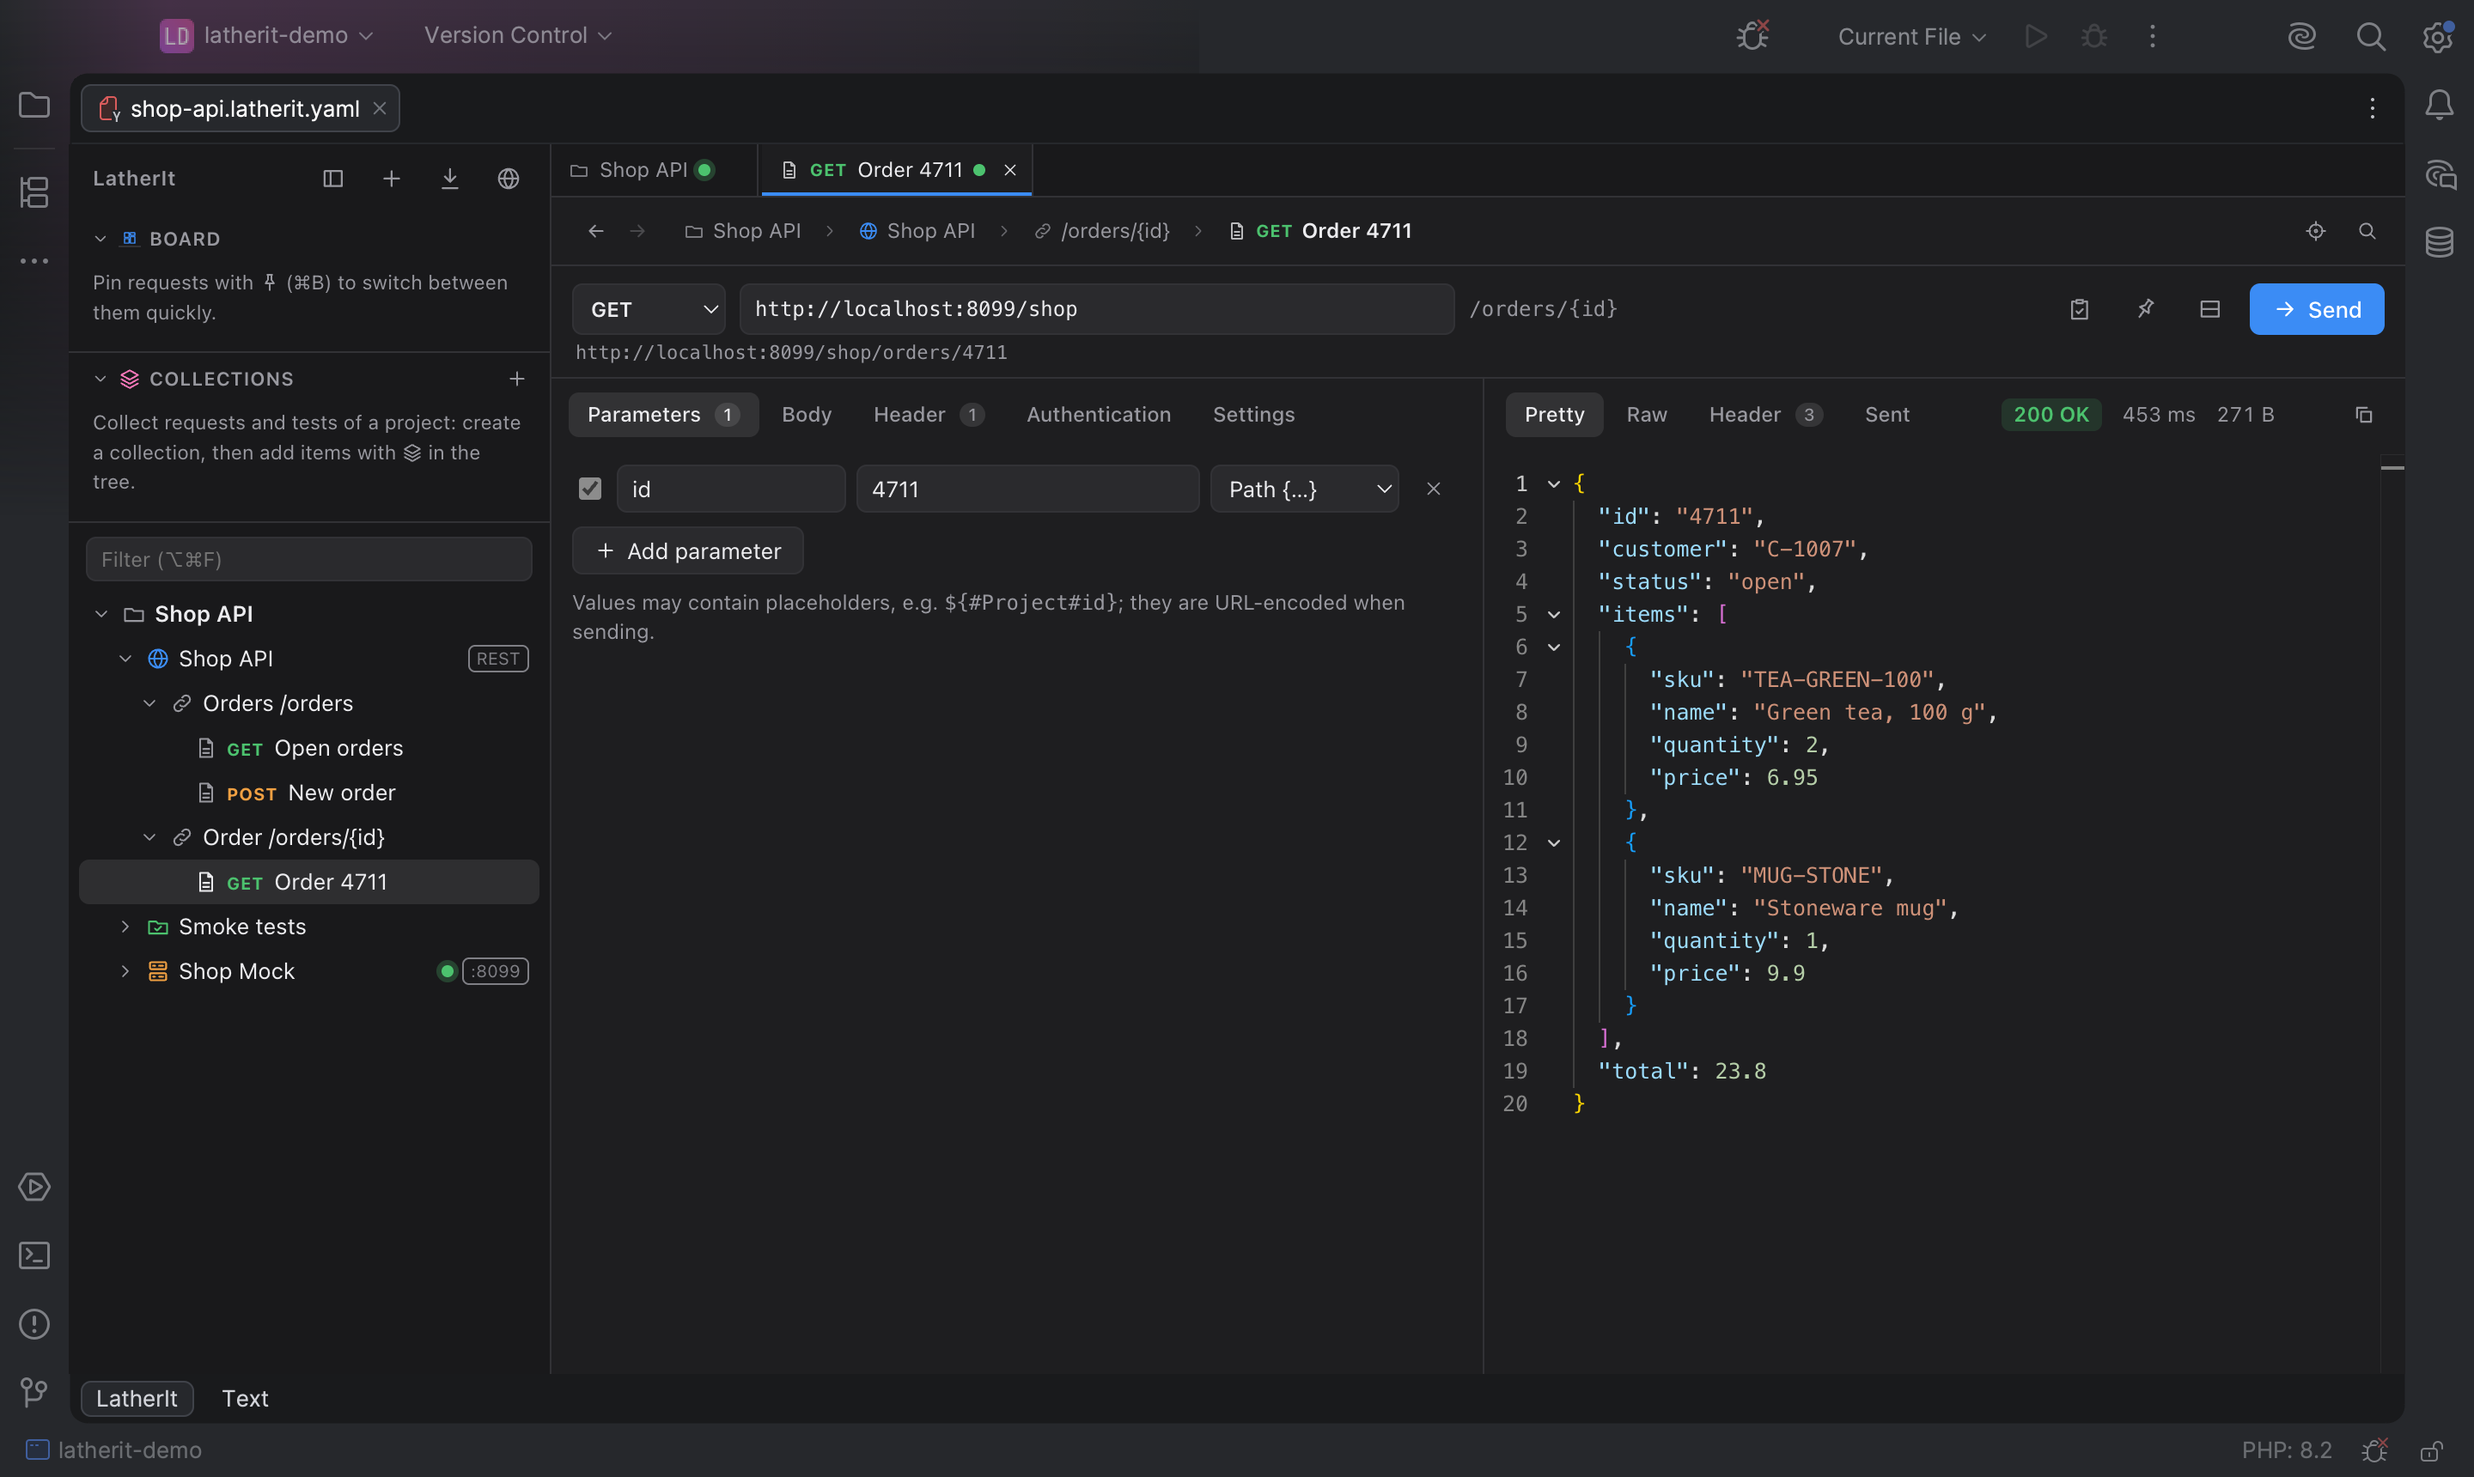
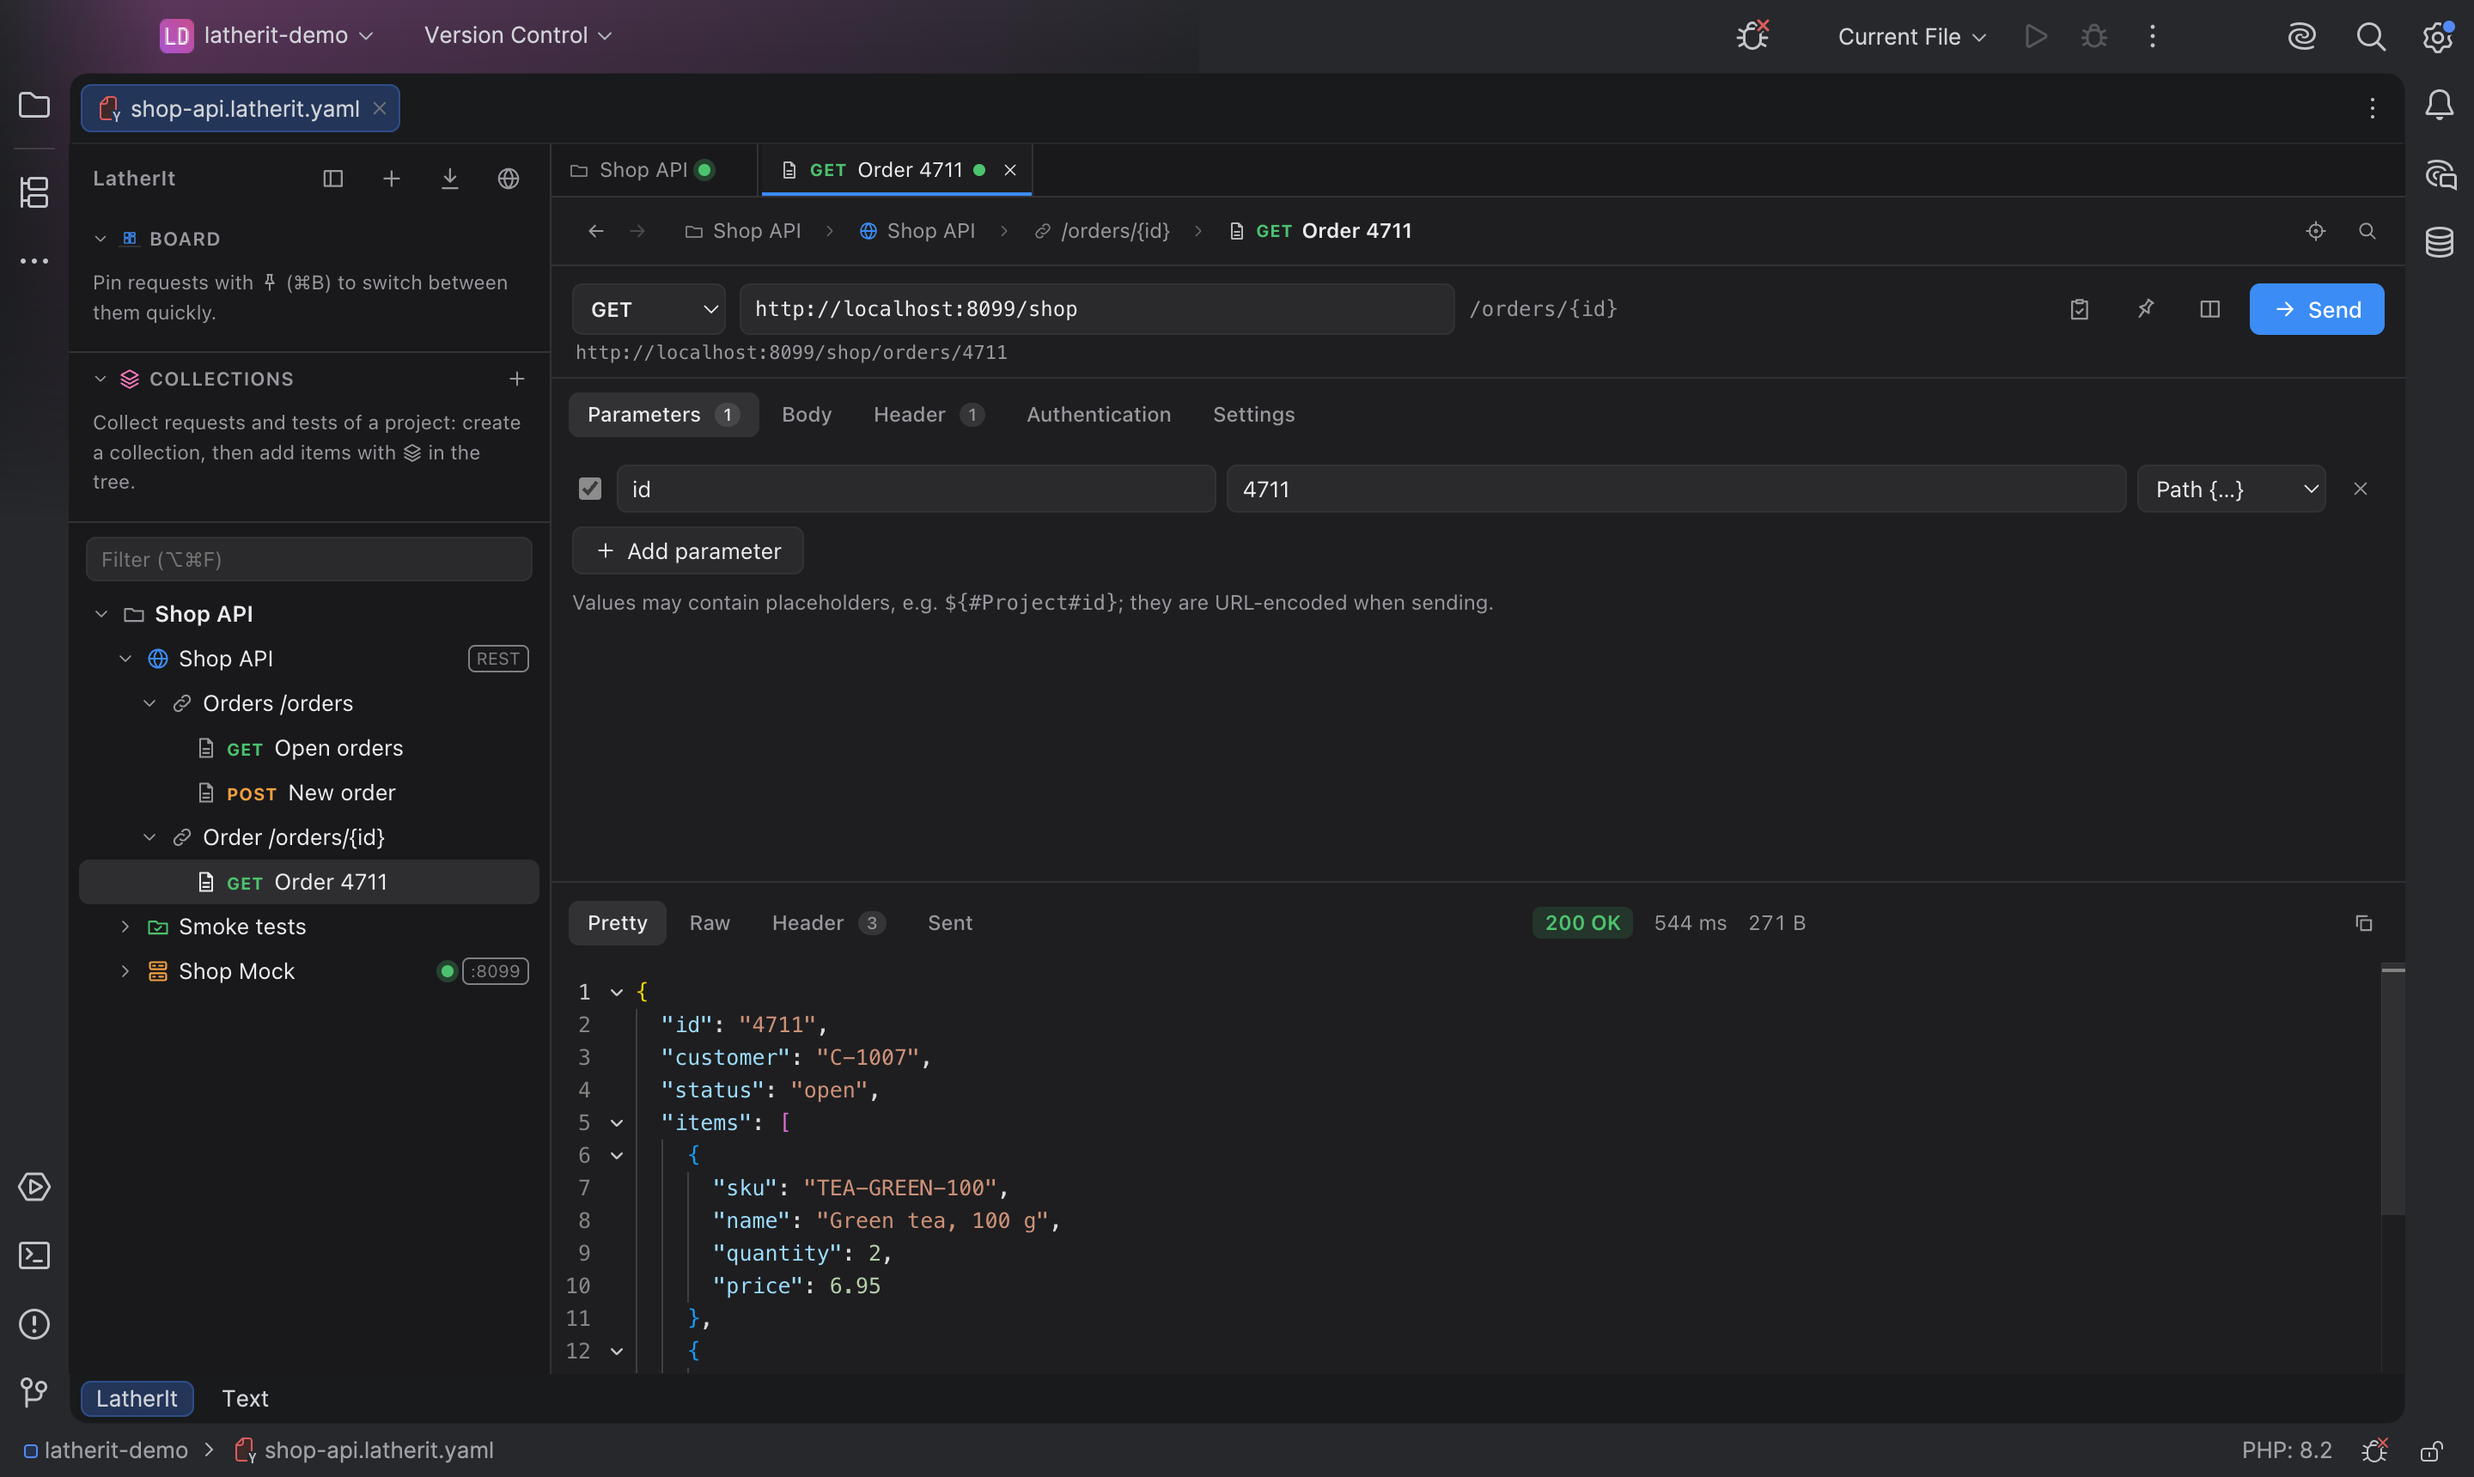
Fix the stacked screenshot for the English UI

diff --git a/src/screenshot/kotlin/app/heckit/ide/latherit/screenshot/ScreenshotMaker.kt b/src/screenshot/kotlin/app/heckit/ide/latherit/screenshot/ScreenshotMaker.kt
@@ -65,10 +65,10 @@ object ScreenshotMaker {
         Thread.sleep(1500)
         shot(frame, view, File(out, "01-request.png"))
 
-        js(view, "document.querySelector('button[title^=\"Response unter\"]').click()")
+        js(view, "document.querySelector('button[title^=\"Response unter\"], button[title^=\"Show response below\"]').click()")
         Thread.sleep(800)
         shot(frame, view, File(out, "02-stacked.png"))
-        js(view, "document.querySelector('button[title^=\"Response neben\"]').click()")
+        js(view, "document.querySelector('button[title^=\"Response neben\"], button[title^=\"Show response next\"]').click()")
 
         select(view, "req-orders-create")
         js(view, "document.querySelector('button.send').click()")
